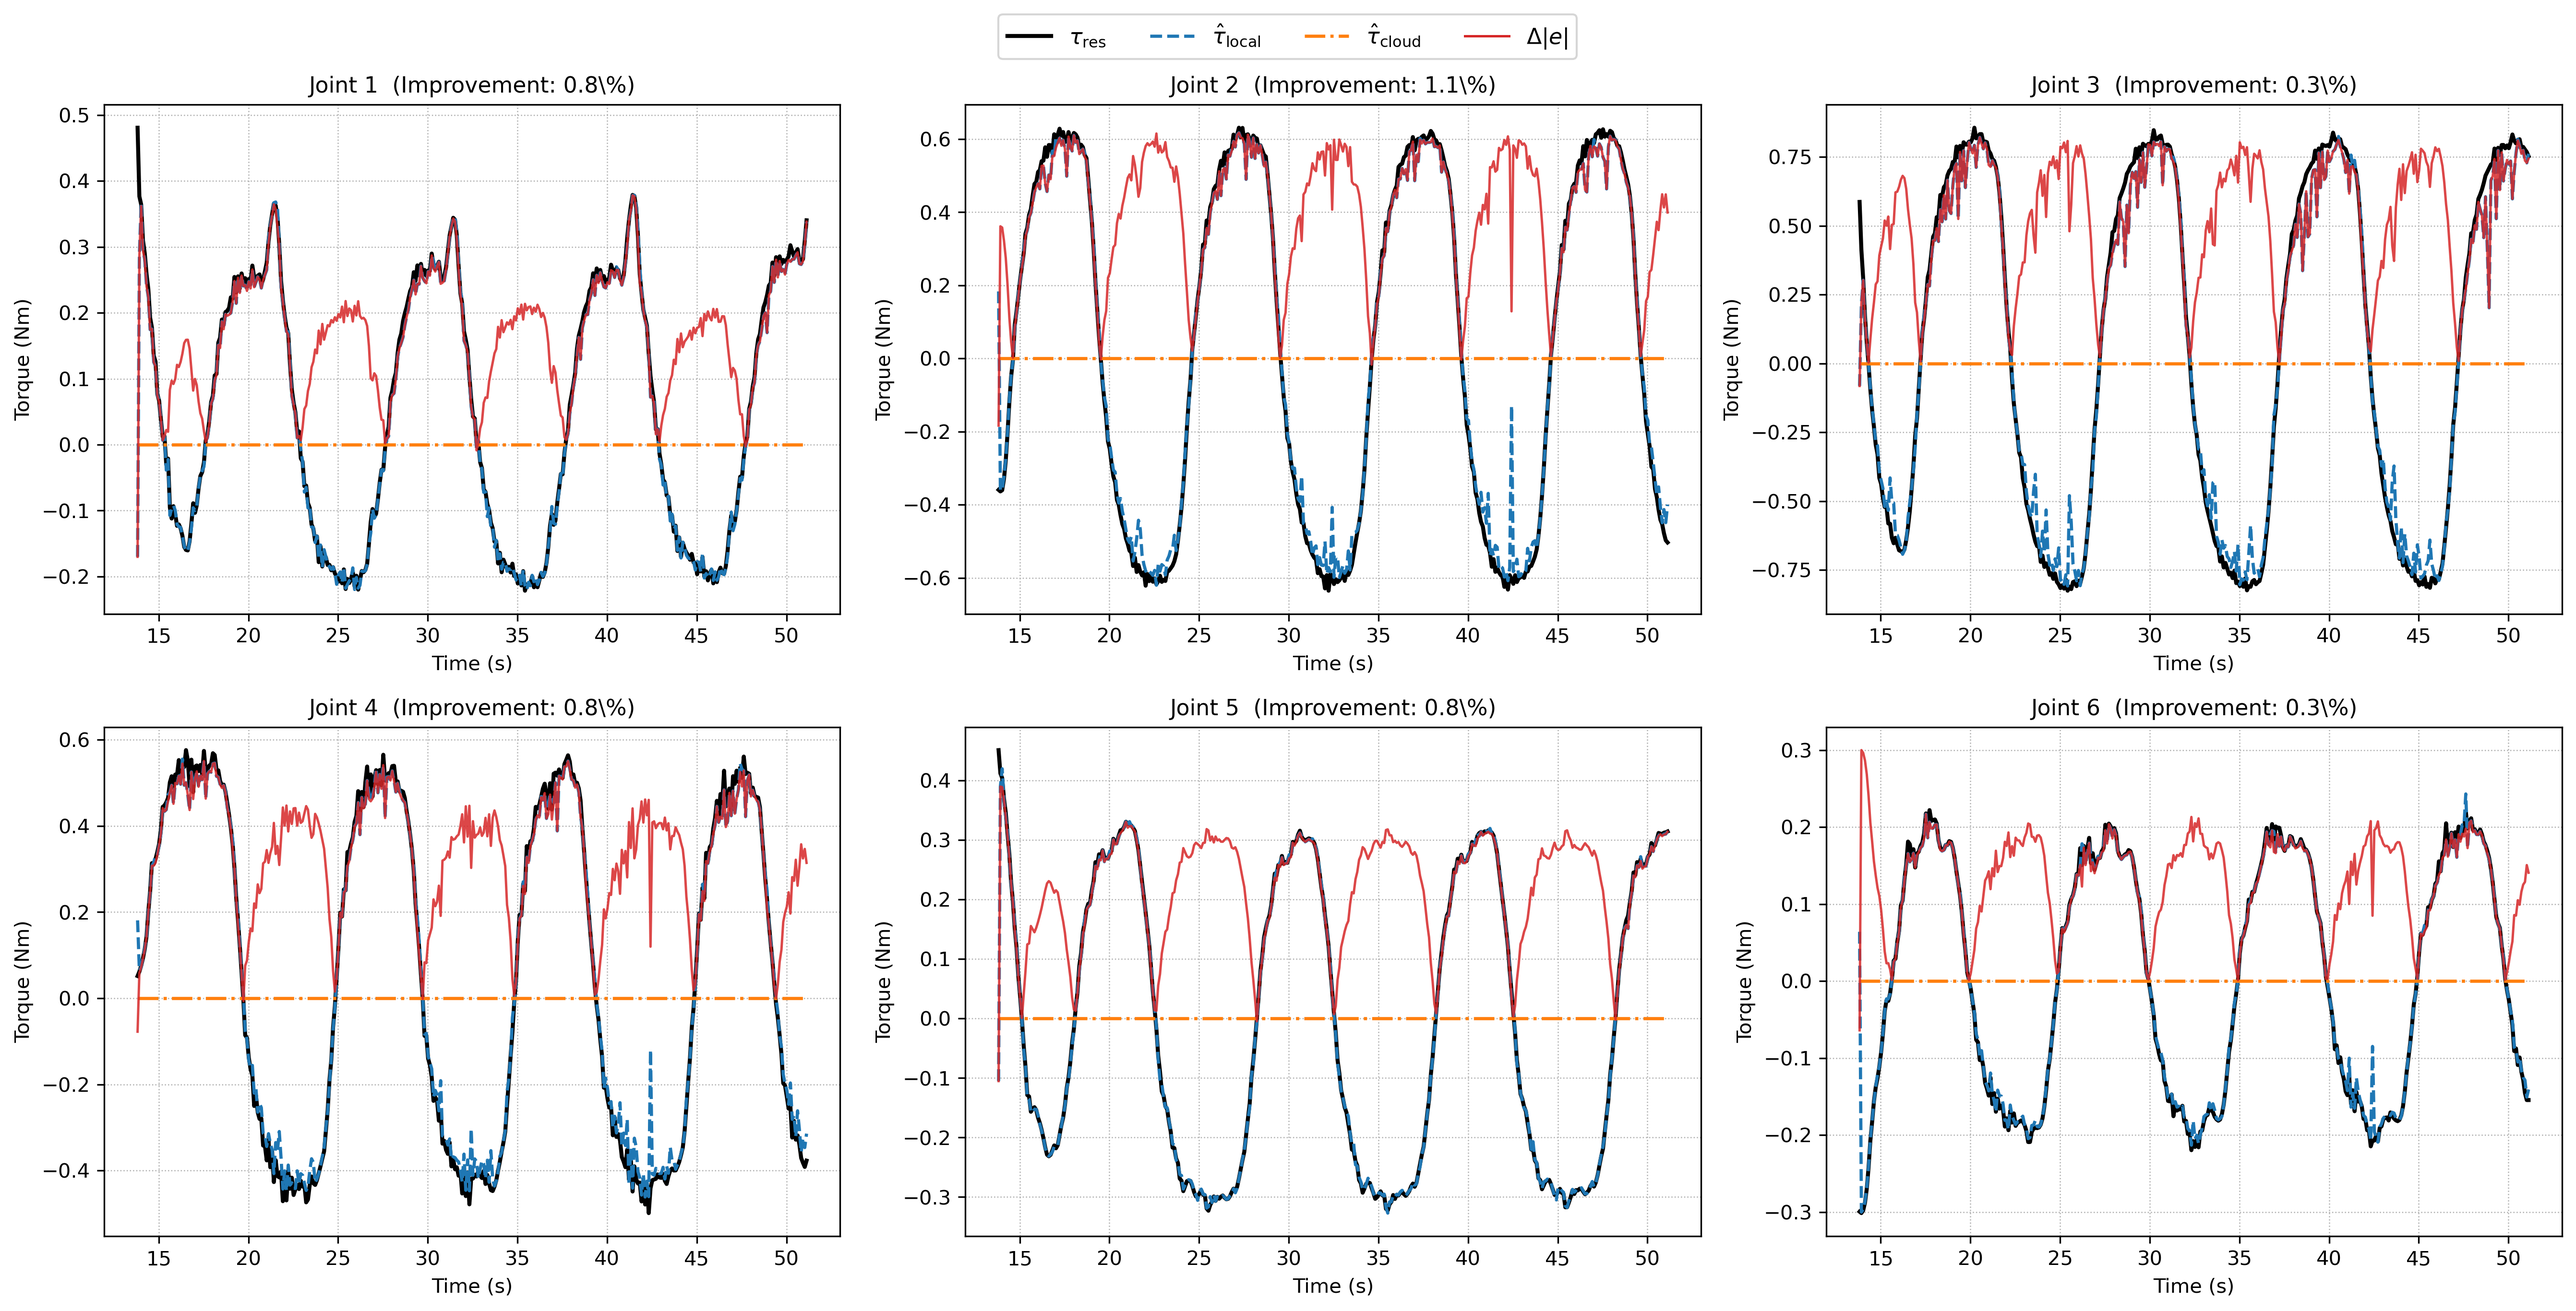
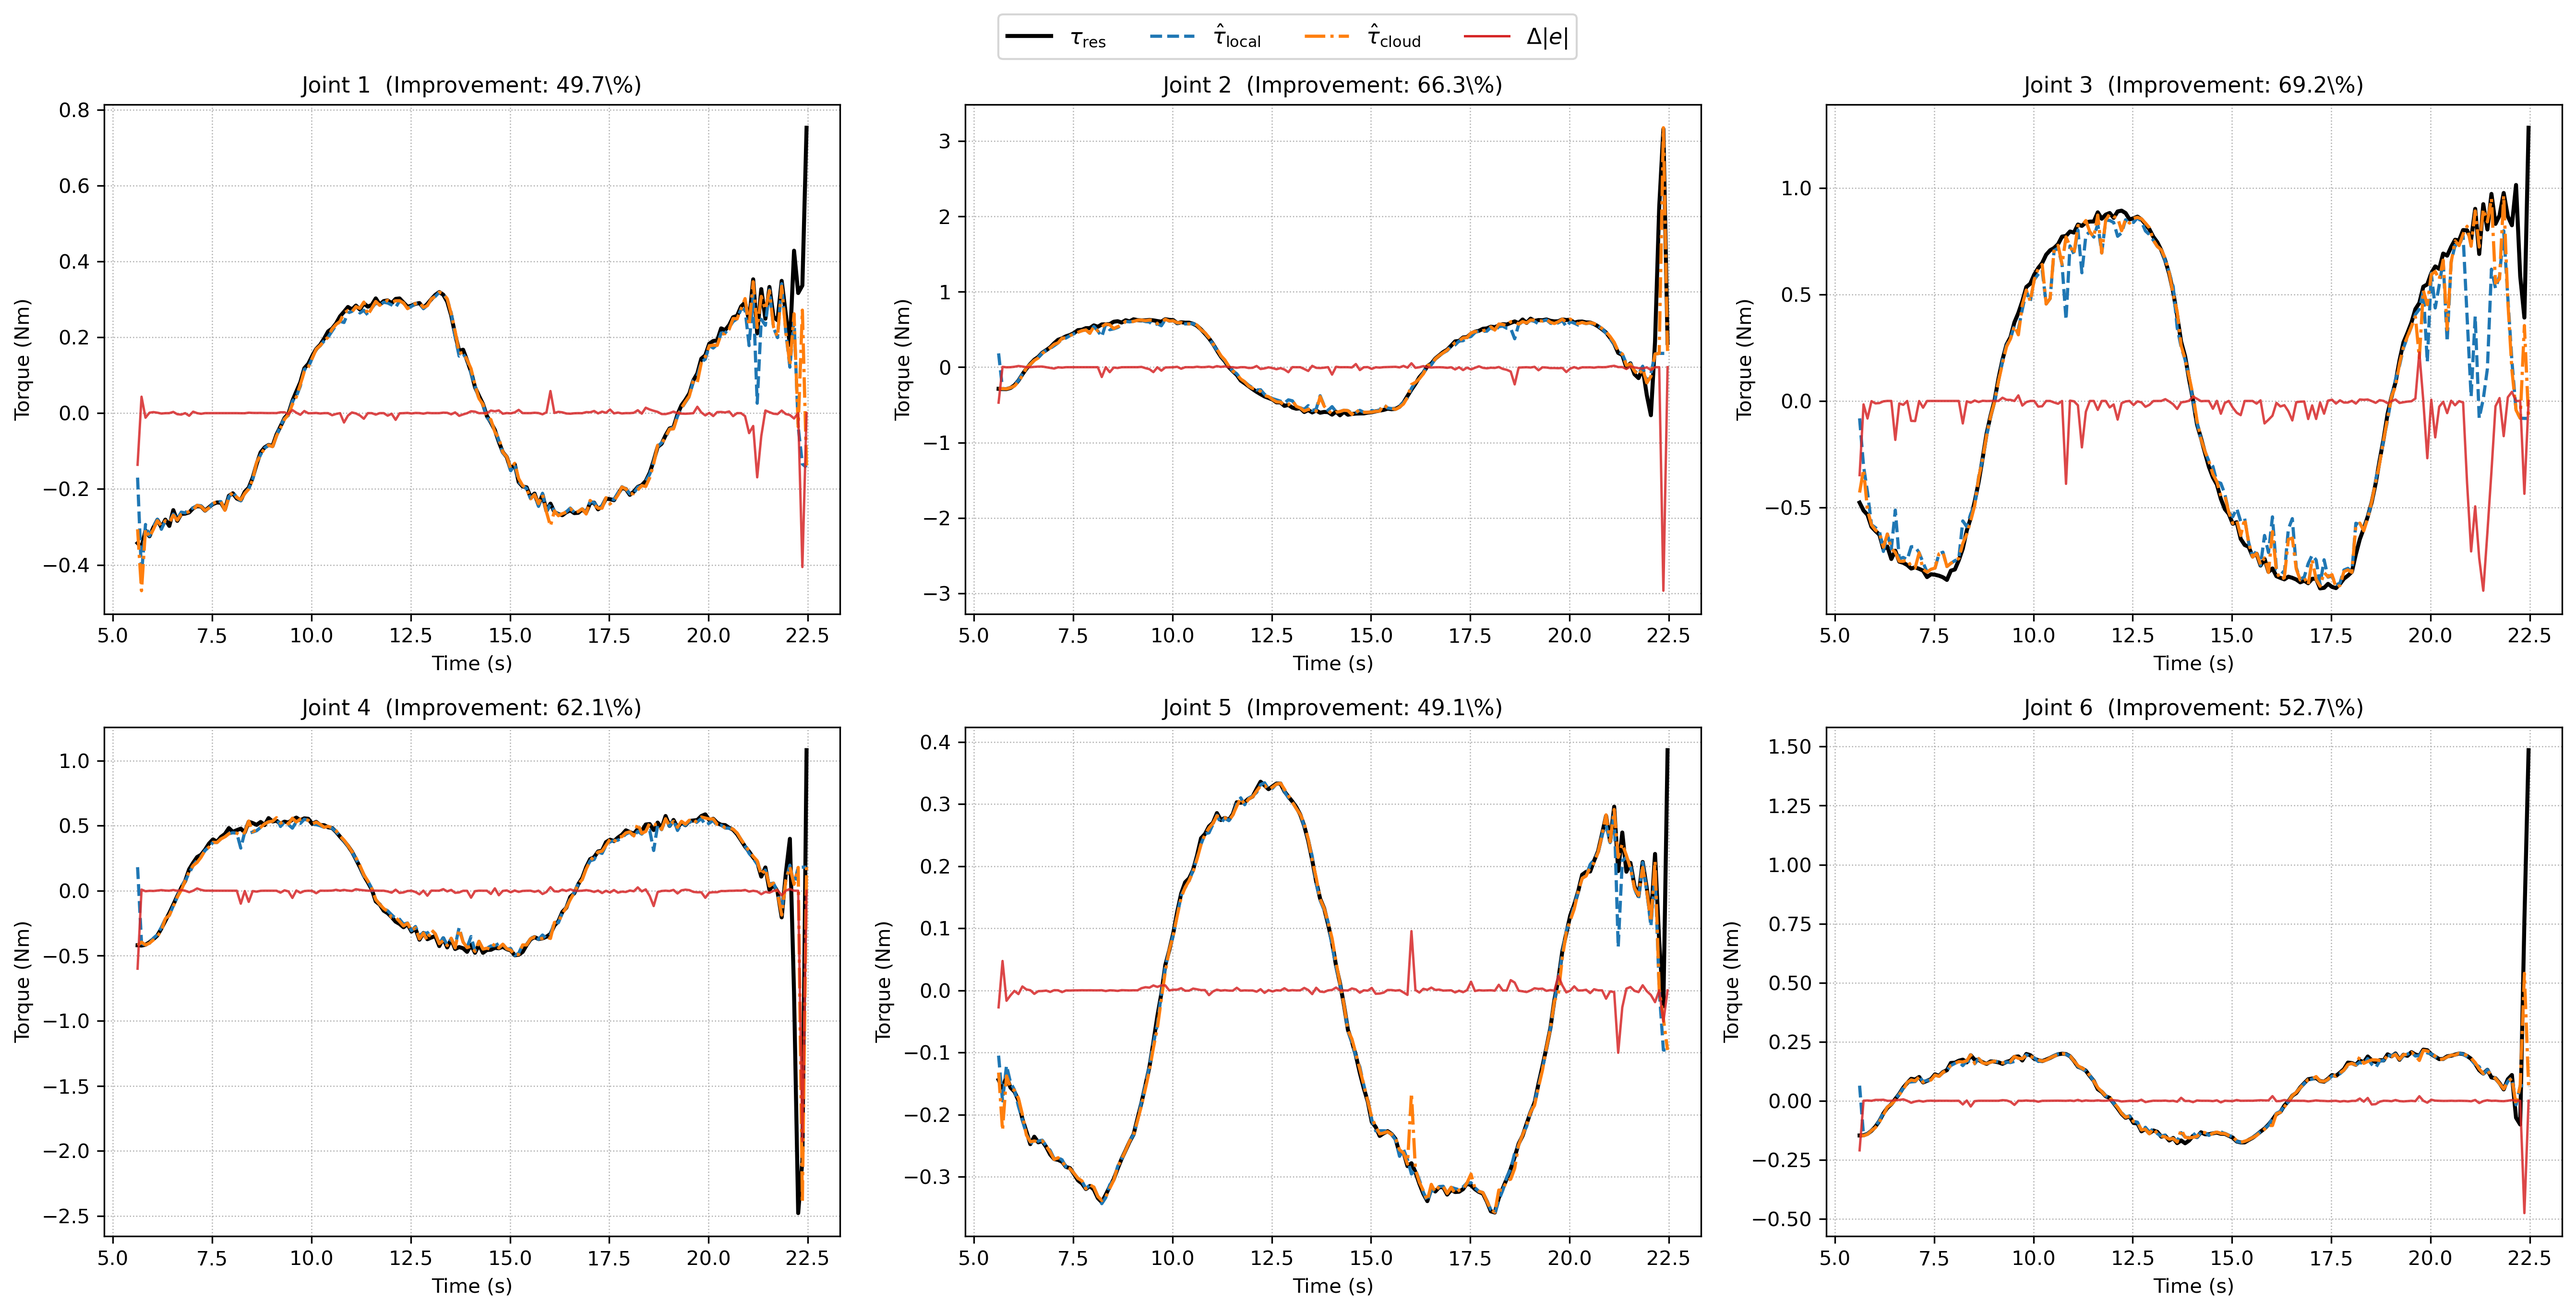
backup

diff --git a/new_structure/py_controllers/py_controllers/cartesian_impedance.py b/new_structure/py_controllers/py_controllers/cartesian_impedance.py
@@ -754,83 +754,83 @@ class CartesianImpedanceController(Node):
                     tau_base = self.tau_residual_filtered.copy()
 
                 # # ===== big GP 用基准帧先更新 =====
-                # _, _ = self._gp_predict_and_update(
-                #     q_base, dq_base, ddq_base,
-                #     tau_base,
-                #     self.gp_models_big,
-                #     update=True
-                # )
+                _, _ = self._gp_predict_and_update(
+                    q_base, dq_base, ddq_base,
+                    tau_base,
+                    self.gp_models_big,
+                    update=True
+                )
 
                 # ===== 在 Td 附近均匀采样多个 rollout 点 =====
-                # self.cloud_rollout_n = 1
-                # self.cloud_rollout_span = 0.001
-                # Td_center = delay_steps * dt
-                # Td_samples = self._sample_rollout_times_uniform(
-                #     Td_center,
-                #     self.cloud_rollout_n,
-                #     self.cloud_rollout_span
-                # )
+                self.cloud_rollout_n = 1
+                self.cloud_rollout_span = 0.001
+                Td_center = delay_steps * dt
+                Td_samples = self._sample_rollout_times_uniform(
+                    Td_center,
+                    self.cloud_rollout_n,
+                    self.cloud_rollout_span
+                )
 
-                # y_list = []
-                # var_list = []
-                # Td_list = []
+                y_list = []
+                var_list = []
+                Td_list = []
 
-                # for Td_i in Td_samples:
-                #     q_roll  = q_base + dq_base * Td_i + 0.5 * ddq_base * (Td_i ** 2)
-                #     dq_roll = dq_base + ddq_base * Td_i
-                #     ddq_roll = ddq_base.copy()
+                for Td_i in Td_samples:
+                    q_roll  = q_base + dq_base * Td_i + 0.5 * ddq_base * (Td_i ** 2)
+                    dq_roll = dq_base + ddq_base * Td_i
+                    ddq_roll = ddq_base.copy()
 
-                #     # ===== 找历史中最近的点 =====
-                #     nearest_state, nearest_dist = self._find_nearest_history_state(
-                #         q_roll, dq_roll, ddq_roll, use_ddq=False
-                #     )
+                    # ===== 找历史中最近的点 =====
+                    nearest_state, nearest_dist = self._find_nearest_history_state(
+                        q_roll, dq_roll, ddq_roll, use_ddq=False
+                    )
 
-                #     if nearest_state is not None:
-                #         q_nn = nearest_state["q"].copy()
-                #         dq_nn = nearest_state["dq"].copy()
-                #         ddq_nn = nearest_state["ddq_est"].copy()
-                #     else:
-                #         q_nn = q_roll.copy()
-                #         dq_nn = dq_roll.copy()
-                #         ddq_nn = ddq_roll.copy()
+                    if nearest_state is not None:
+                        q_nn = nearest_state["q"].copy()
+                        dq_nn = nearest_state["dq"].copy()
+                        ddq_nn = nearest_state["ddq_est"].copy()
+                    else:
+                        q_nn = q_roll.copy()
+                        dq_nn = dq_roll.copy()
+                        ddq_nn = ddq_roll.copy()
 
-                #     y_hat_i, var_i = self._gp_predict_and_update(
-                #         q_nn, dq_nn, ddq_nn,
-                #         tau_base,
-                #         self.gp_models_big,
-                #         update=False
-                #     )
+                    y_hat_i, var_i = self._gp_predict_and_update(
+                        q_nn, dq_nn, ddq_nn,
+                        tau_base,
+                        self.gp_models_big,
+                        update=False
+                    )
 
-                #     y_list.append(y_hat_i.copy())
-                #     var_list.append(var_i.copy())
-                #     Td_list.append(Td_i)
+                    y_list.append(y_hat_i.copy())
+                    var_list.append(var_i.copy())
+                    Td_list.append(Td_i)
 
-                # # ===== variance-weighted fusion =====
-                # y_arr = np.asarray(y_list, dtype=float)      # (N, 7)
-                # var_arr = np.asarray(var_list, dtype=float)  # (N, 7)
+                # ===== variance-weighted fusion =====
+                y_arr = np.asarray(y_list, dtype=float)      # (N, 7)
+                var_arr = np.asarray(var_list, dtype=float)  # (N, 7)
 
-                # eps = 1e-8
-                # prec_arr = 1.0 / np.maximum(var_arr, eps)    # (N, 7)
-                # w_arr = prec_arr / np.sum(prec_arr, axis=0, keepdims=True)
+                eps = 1e-8
+                prec_arr = 1.0 / np.maximum(var_arr, eps)    # (N, 7)
+                w_arr = prec_arr / np.sum(prec_arr, axis=0, keepdims=True)
 
-                # y_hat_cloud = np.sum(y_arr * w_arr, axis=0)
-                # var_cloud = 1.0 / np.maximum(np.sum(prec_arr, axis=0), eps)
+                y_hat_cloud = np.sum(y_arr * w_arr, axis=0)
+                var_cloud = 1.0 / np.maximum(np.sum(prec_arr, axis=0), eps)
 
-                # self.y_hat_cloud = y_hat_cloud.copy()
-                # self.var_cloud = var_cloud.copy()
+                self.y_hat_cloud = y_hat_cloud.copy()
+                self.var_cloud = var_cloud.copy()
                 
-                # # ---------------------------------------------------------
-                # # C) 每帧融合（不要只在 else 融合）
-                # # ---------------------------------------------------------
-                # eps = 1e-8
-                # v_l = np.maximum(self.var_local, eps)
-                # v_c = np.maximum(self.var_cloud, eps)
+                # ---------------------------------------------------------
+                # C) 每帧融合（不要只在 else 融合）
+                # ---------------------------------------------------------
+                eps = 1e-8
+                v_l = np.maximum(self.var_local, eps)
+                v_c = np.maximum(self.var_cloud, eps)
 
-                # prec_l = 1.0 / v_l
-                # prec_c = 1.0 / v_c
-                # w_l = prec_l / (prec_l + prec_c)
+                prec_l = 1.0 / v_l
+                prec_c = 1.0 / v_c
+                w_l = prec_l / (prec_l + prec_c)
 
-                # self.y_hat_combined = w_l * self.y_hat_local + (1.0 - w_l) * self.y_hat_cloud
+                self.y_hat_combined = w_l * self.y_hat_local + (1.0 - w_l) * self.y_hat_cloud
 
             # tau = tau - self.y_hat_local
             tau = tau
@@ -859,6 +859,45 @@ class CartesianImpedanceController(Node):
 
         except Exception as e:
             self.get_logger().error(f'Parameter error: {str(e)}')
+
+    def _rollout_with_frozen_tau(
+        self,
+        q0,
+        dq0,
+        Td,
+        tau_cmd,
+        mass_matrix,
+        coriolis_matrix,
+        gravity_vec,
+        tau_res_hat=None,
+        n_steps=5,
+    ):
+        q_pred = q0.copy()
+        dq_pred = dq0.copy()
+        ddq_pred = np.zeros(7, dtype=float)
+
+        if tau_res_hat is None:
+            tau_res_hat = np.zeros(7, dtype=float)
+        else:
+            tau_res_hat = np.asarray(tau_res_hat, dtype=float)
+
+        n_steps = max(1, int(n_steps))
+        dt_r = max(Td / n_steps, 1e-4)
+
+        for _ in range(n_steps):
+            tau_fric = self.friction_compensation(dq_pred)
+
+            rhs = tau_cmd - (coriolis_matrix @ dq_pred) - gravity_vec - tau_fric - tau_res_hat
+
+            try:
+                ddq_pred = np.linalg.solve(mass_matrix, rhs)
+            except np.linalg.LinAlgError:
+                ddq_pred = np.linalg.pinv(mass_matrix) @ rhs
+
+            dq_pred = dq_pred + ddq_pred * dt_r
+            q_pred = q_pred + dq_pred * dt_r
+
+        return q_pred, dq_pred, ddq_pred
 
     def _get_startup_task_reference(self, t_now, x_curr):
         """
